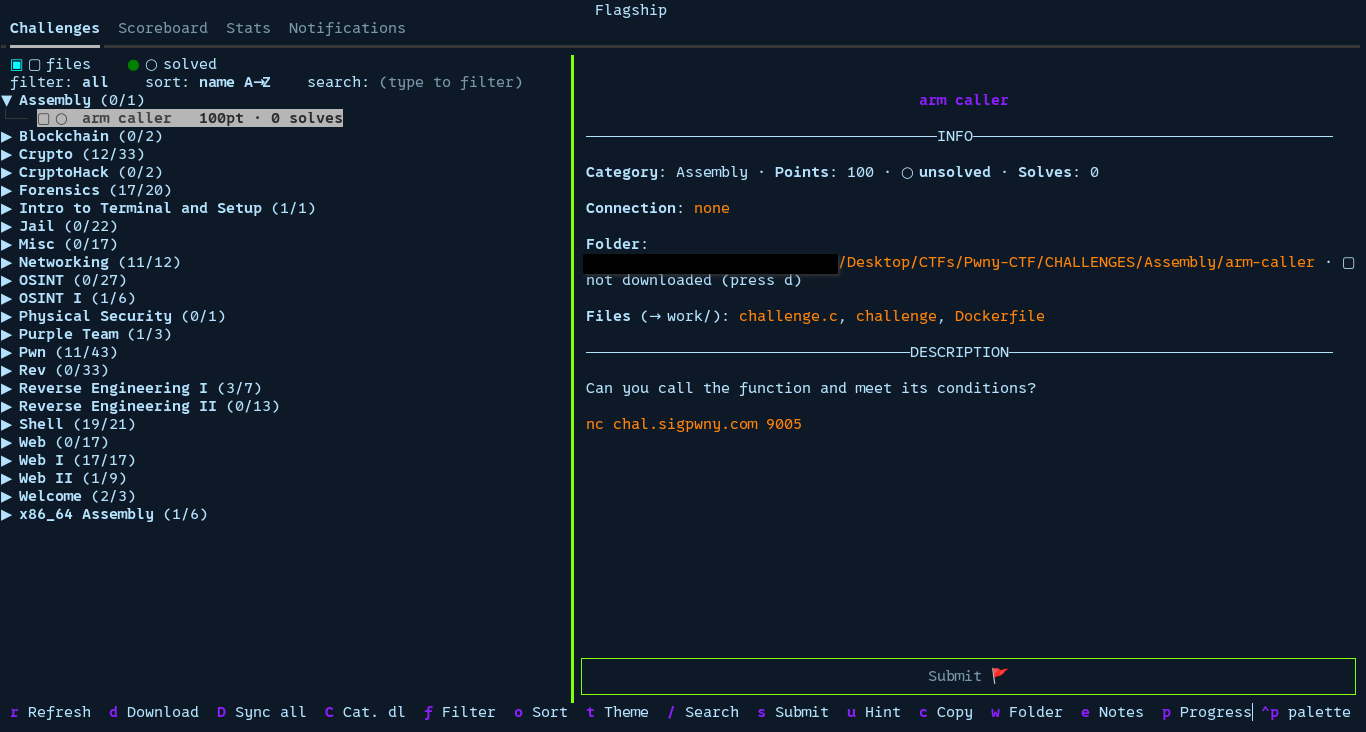
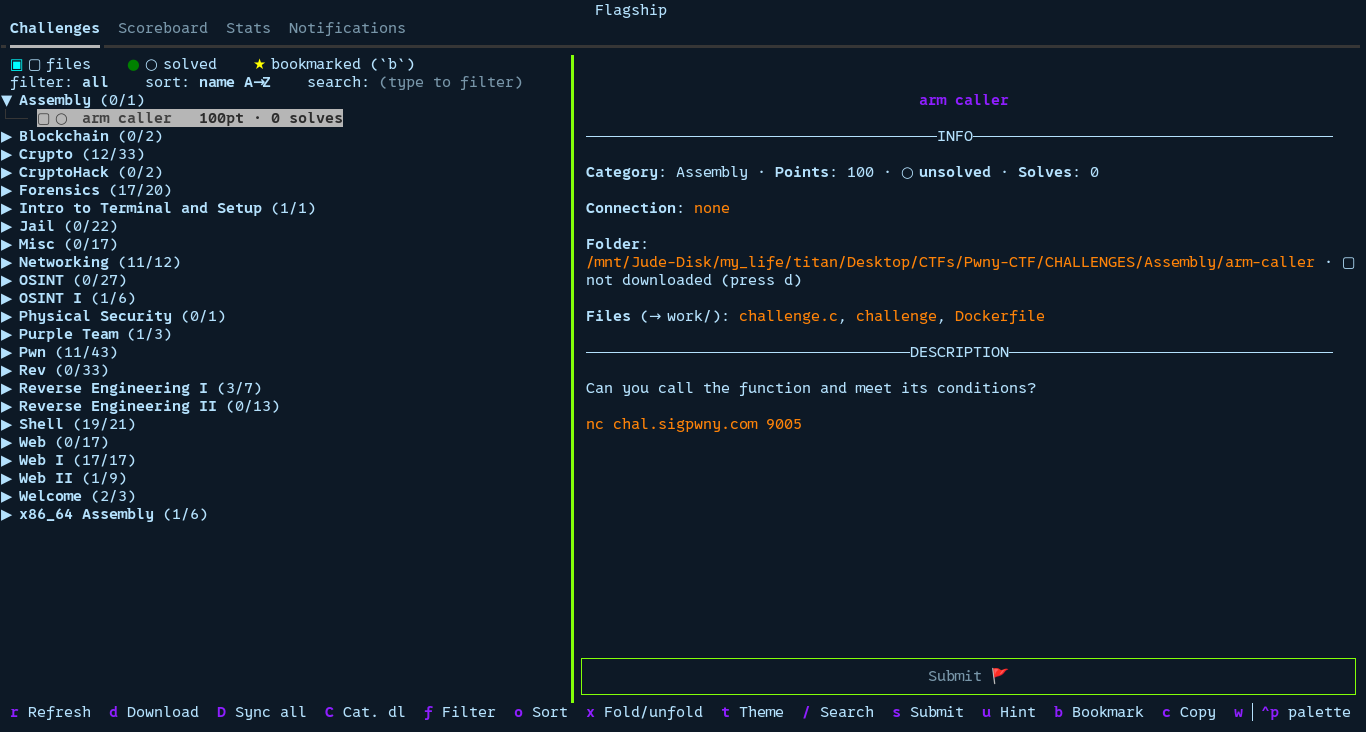
minor fixes

Changed region(s): [[0.4305, 0.9617, 0.9224, 0.9918], [0.4305, 0.3306, 0.6149, 0.3907], [0.1845, 0.0601, 0.2767, 0.0902]]

diff --git a/flagship/app.py b/flagship/app.py
@@ -203,8 +203,8 @@ class Splitter(Widget):
             self.app._refresh_detail_width()
 
 
-FILTERS = ("all", "unsolved", "solved")
-FILTER_LABEL = {"all": "all", "unsolved": "unsolved", "solved": "solved"}
+FILTERS = ("all", "unsolved", "solved", "bookmarked")
+FILTER_LABEL = {"all": "all", "unsolved": "unsolved", "solved": "solved", "bookmarked": "bookmarked"}
 SORTS = ("category", "points", "solves", "fewest", "name", "id", "downloaded", "unsolved")
 SORT_LABEL = {
     "category": "category", "points": "points", "solves": "solves", "fewest": "fewest solves",
@@ -363,6 +363,7 @@ class Flagship(App):
         ("slash", "focus_search", "Search"),
         ("s", "focus_flag", "Submit"),
         ("u", "unlock_hint", "Hint"),
+        ("b", "toggle_bookmark", "Bookmark"),
         ("c", "copy_conn", "Copy"),
         ("w", "open_folder", "Folder"),
         ("e", "edit_notes", "Notes"),
@@ -382,6 +383,7 @@ class Flagship(App):
         self.search = ""
         self._session_solved: set[int] = set()  # solved during this session: stay visible under "unsolved"
         self.collapsed_cats: set[str] = set()  # collapsed categories (default = expanded)
+        self.bookmarked: set[int] = set()  # challenge ids pinned with `b`, persisted
         self._building = False                  # re-entrancy guard while the tree is being rebuilt
         self.me: dict = {}
         self._personal: dict = {}             # individual stats (team mode only)
@@ -460,6 +462,7 @@ class Flagship(App):
             s = json.loads(self._state_path.read_text(encoding="utf-8"))
             self.sort_mode = s.get("sort", self.sort_mode)
             self.collapsed_cats = set(s.get("collapsed", []))
+            self.bookmarked = set(s.get("bookmarked", []))
             self._last_selected_id = s.get("selected")
             self._pref_theme = s.get("theme")
             self._tree_width = s.get("tree_width")
@@ -487,6 +490,7 @@ class Flagship(App):
                 "sort": self.sort_mode,
                 "selected": (self.selected or {}).get("id"),
                 "collapsed": sorted(self.collapsed_cats),
+                "bookmarked": sorted(self.bookmarked),
                 "theme": self.theme,
                 "tree_width": self._tree_width_str(),
             }), encoding="utf-8")
@@ -863,12 +867,25 @@ class Flagship(App):
         return (int(c.get("value", 0) or 0), c.get("name", ""))
 
     def _passes_filter(self, c: dict) -> bool:
-        """Status filter (`f`): all / unsolved / solved."""
+        """Status filter (`f`): all / unsolved / solved / bookmarked."""
         if self.filter_mode == "unsolved":
             return not c.get("solved") or int(c.get("id", -1)) in self._session_solved
         if self.filter_mode == "solved":
             return bool(c.get("solved"))
+        if self.filter_mode == "bookmarked":
+            return int(c.get("id", -1)) in self.bookmarked
         return True
+
+    def _matches_search(self, c: dict) -> bool:
+        """Name, category, and the description if its detail happens to be cached already
+        (never fetched just for this: typing in the search box must never trigger network
+        calls)."""
+        if not self.search:
+            return True
+        cid = int(c.get("id", -1))
+        desc = self._detail_cache.get(cid, {}).get("description") or ""
+        haystack = f"{c.get('name', '')} {c.get('category', '')} {desc}".lower()
+        return self.search in haystack
 
     def _rebuild_tree(self) -> None:
         tree = self.query_one("#tree", Tree)
@@ -879,7 +896,7 @@ class Flagship(App):
             for c in self.challenges:
                 if not self._passes_filter(c):
                     continue
-                if self.search and self.search not in c.get("name", "").lower():
+                if not self._matches_search(c):
                     continue
                 cats.setdefault(c.get("category", "?"), []).append(c)
             for cat in sorted(cats):
@@ -892,9 +909,10 @@ class Flagship(App):
                     # column 1 = downloaded (square/box) · column 2 = solved (circle)
                     mark = "[b green]●[/b green]" if c.get("solved") else "[grey42]○[/grey42]"
                     dlm = "[b cyan]▣[/b cyan]" if c.get("downloaded") else "[grey42]▢[/grey42]"
+                    star = "[yellow]★[/yellow] " if int(c.get("id", -1)) in self.bookmarked else ""
                     slv = c.get("solves")
                     stail = f"   [dim]{c.get('value','')}pt · {slv} solves[/dim]" if slv is not None else f"   [dim]{c.get('value','')}pt[/dim]"
-                    node.add_leaf(f"{dlm} {mark}  {c.get('name','?')}{stail}", data=c)
+                    node.add_leaf(f"{dlm} {mark}  {star}{c.get('name','?')}{stail}", data=c)
         finally:
             self._building = False
 
@@ -949,6 +967,15 @@ class Flagship(App):
         left = (width - len(title)) // 2
         return "─" * left + title + "─" * (width - len(title) - left)
 
+    def _solver_name(self, cid: int) -> str | None:
+        """Team mode only: which teammate's own solve this challenge is, from the per-member
+        breakdown already fetched for the Stats tab (no extra API call). None in solo mode, or
+        if that data hasn't loaded yet."""
+        for m in self._members:
+            if cid in m.get("solved_ids", []):
+                return m.get("name")
+        return None
+
     def _render_detail(self, c: dict, loading: bool = False) -> None:
         files = [Path(f.split("?")[0]).name for f in (c.get("files") or [])]
         status = "● solved" if c.get("solved") else "○ unsolved"
@@ -958,6 +985,10 @@ class Flagship(App):
             meta += f"  ·  **Solves**: {c['solves']}"
         fb = self._fb_cache.get(cid)
         md = [f"# {c.get('name','?')}", self._rule("INFO"), meta]
+        if c.get("solved") and self.me.get("team"):
+            solver = self._solver_name(cid)
+            if solver:
+                md.append(f"👤 **Solved by**: {solver}")
         if fb:
             md.append(f"🩸 **First blood**: {fb}")
         md.append(f"**Connection**: `{c.get('connection_info') or 'none'}`")
@@ -1057,7 +1088,8 @@ class Flagship(App):
         (always-on, borderless) search field, so searching never costs extra terminal height."""
         self.query_one("#legend_icons", Static).update(
             "[cyan]▣[/cyan] [grey42]▢[/grey42] files    "
-            "[green]●[/green] [grey42]○[/grey42] solved")
+            "[green]●[/green] [grey42]○[/grey42] solved    "
+            "[yellow]★[/yellow] bookmarked (`b`)")
         flt, srt = FILTER_LABEL[self.filter_mode], SORT_LABEL[self.sort_mode]
         mark = "[b yellow]" if self.filter_mode != "all" else "[b]"  # highlight an active filter
         self.query_one("#legend_labels", Static).update(
@@ -1268,6 +1300,21 @@ class Flagship(App):
         self._tree_sig = None  # force a rebuild so the new state shows immediately
         self._emit(f"✔ Correct! {message}".strip(), "information", 6)
         self._apply_challenges(self.challenges)
+
+    # -- bookmark ---------------------------------------------
+    def action_toggle_bookmark(self) -> None:
+        if not self.selected:
+            self.notify("Select a challenge first.", severity="warning")
+            return
+        cid = int(self.selected["id"])
+        if cid in self.bookmarked:
+            self.bookmarked.discard(cid)
+            self.notify(f"☆ Unbookmarked: {self.selected.get('name', '?')}", timeout=3)
+        else:
+            self.bookmarked.add(cid)
+            self.notify(f"★ Bookmarked: {self.selected.get('name', '?')}", timeout=3)
+        self._rebuild_tree()
+        self._save_ui_state()
 
     # -- hint unlock ---------------------------------------------
     def action_unlock_hint(self) -> None:

diff --git a/doc/FR.md b/doc/FR.md
@@ -18,15 +18,18 @@ résolu, permet de soumettre des flags. Pas besoin de navigateur.
 - Description ou indices modifiés plus tard ? L'ancien `desc.txt` reste, un nouveau
   `desc2.txt` est créé à côté, avec ce qui a changé.
 - Quatre onglets : Challenges, Scoreboard, Stats, Notifications.
-- Recherche (`/`, intégrée à la ligne filtre/tri, ne prend aucune hauteur en plus), filtre
-  (`f`), tri (`o`, 8 modes : points, solves, nom, id...).
+- Recherche (`/`, intégrée à la ligne filtre/tri, ne prend aucune hauteur en plus) : nom,
+  catégorie, et la description si elle est déjà en cache. Filtre (`f`) : all, unsolved, solved,
+  bookmarked. Tri (`o`, 8 modes : points, solves, nom, id...).
+- Favoris (`b`) pour épingler un challenge à reprendre plus tard, marqué `★` dans la liste.
 - Soumission de flag depuis le terminal. Un flag déjà tenté et refusé n'est jamais renvoyé.
 - Déblocage d'indices à la demande, avec confirmation pour les payants.
 - Panneaux redimensionnables : glisser `┃` entre la liste et le détail, double-clic pour
   revenir à la taille par défaut.
 - Panneau de détail découpé en INFO / DESCRIPTION / HINT(S), séparateurs centrés.
 - Onglet Stats : score, rang, résolus, points, téléchargés, first bloods. En mode équipe,
-  détail par membre, clic sur un nom pour voir ses stats.
+  détail par membre, clic sur un nom pour voir ses stats, et le panneau de détail indique qui
+  dans l'équipe a résolu chaque challenge.
 - Marche pareil en solo ou en équipe.
 - CTF fini ou hors-ligne ? Flagship réaffiche la dernière synchro, rien n'est perdu.
 
@@ -114,7 +117,8 @@ flagship ~/ctfs/HeroCTF/config.sh
 | `C` | télécharger la catégorie sous le curseur (confirmation) |
 | `/` | focus sur le champ de recherche en ligne, filtre en direct |
 | `r` | rafraîchir maintenant (liste, scoreboard, rang) |
-| `f` | changer de filtre : all, unsolved, solved |
+| `f` | changer de filtre : all, unsolved, solved, bookmarked |
+| `b` | activer/désactiver le favori sur le challenge sélectionné |
 | `x` | replier toutes les catégories, ou tout déplier |
 | `o` | changer de tri : catégorie, points, solves, moins de solves, nom, id, téléchargés d'abord, non résolus d'abord |
 | `t` | changer de thème (mémorisé) |

diff --git a/doc/EN.md b/doc/EN.md
@@ -18,14 +18,17 @@ submit flags. No browser needed.
 - Description or hints changed later? Old `desc.txt` stays, a new `desc2.txt` is saved next to
   it, with what changed.
 - Four tabs: Challenges, Scoreboard, Stats, Notifications.
-- Search (`/`, lives on the filter/sort line, costs no extra height), filter (`f`), sort (`o`,
-  8 ways: points, solves, name, id...).
+- Search (`/`, lives on the filter/sort line, costs no extra height) matches name, category,
+  and the description if it's already cached. Filter (`f`): all, unsolved, solved, bookmarked.
+  Sort (`o`, 8 ways: points, solves, name, id...).
+- Bookmark a challenge with `b` to pin it for later, shows as a `★` in the list.
 - Submit flags from the terminal. A flag already tried and rejected is never resent.
 - Unlock hints on demand, with confirmation for paid ones.
 - Resizable panes: drag `┃` between the list and the detail, double-click resets it.
 - Detail panel split into INFO / DESCRIPTION / HINT(S), with centered dividers.
 - Stats tab: score, rank, solved, points, downloaded, first bloods. Team mode adds a
-  per-member breakdown, click a name for their stats.
+  per-member breakdown, click a name for their stats, and the detail panel shows who on the
+  team actually solved each one.
 - Works solo or in a team, same keys either way.
 - CTF over or offline? Shows your last synced data, nothing lost.
 
@@ -112,7 +115,8 @@ flagship ~/ctfs/HeroCTF/config.sh
 | `C` | download the category under the cursor (confirmation) |
 | `/` | focus the inline search field, filters live as you type |
 | `r` | refresh now (list, scoreboard, rank) |
-| `f` | cycle filter: all, unsolved, solved |
+| `f` | cycle filter: all, unsolved, solved, bookmarked |
+| `b` | toggle bookmark on the selected challenge |
 | `x` | fold all categories, or unfold them all back |
 | `o` | cycle sort: category, points, solves, fewest solves, name, id, downloaded first, unsolved first |
 | `t` | cycle colour theme (remembered) |
